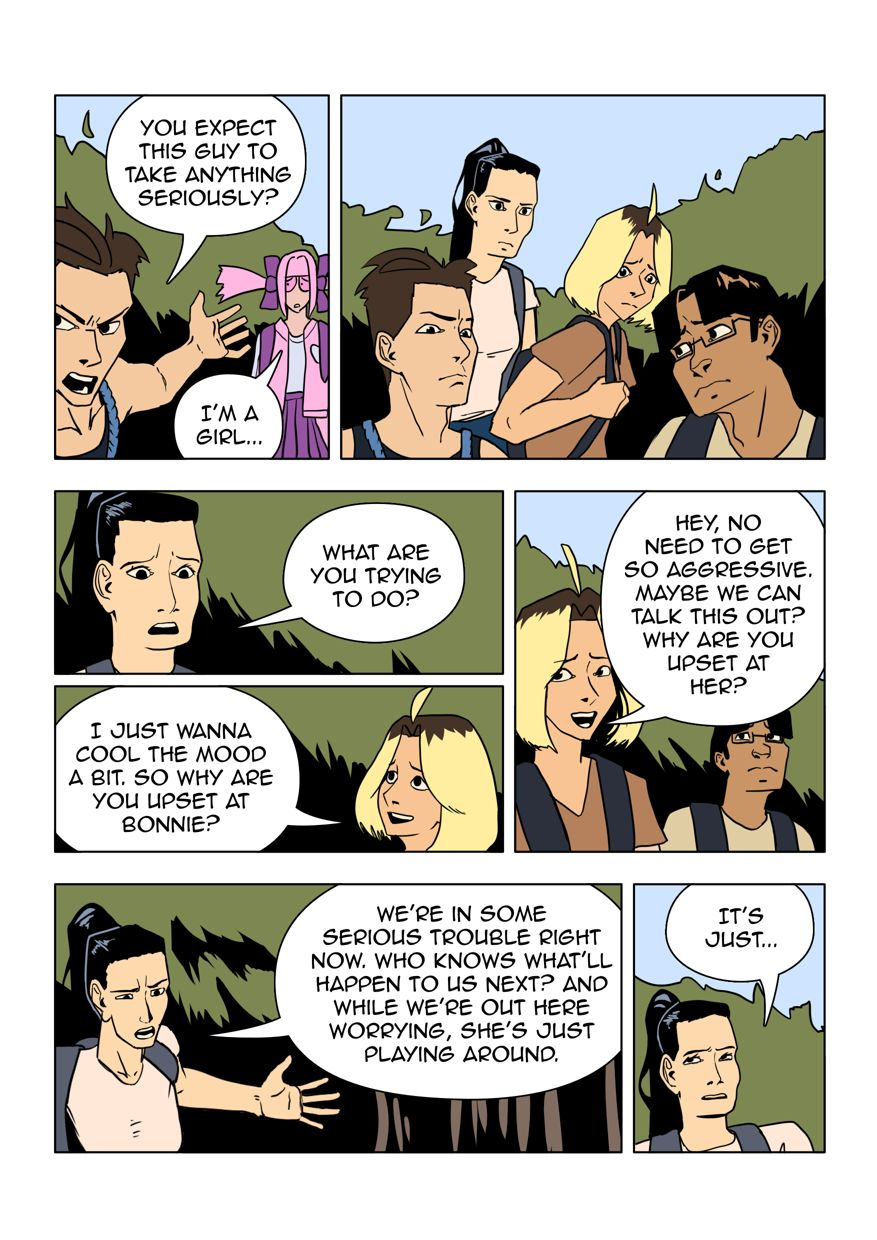
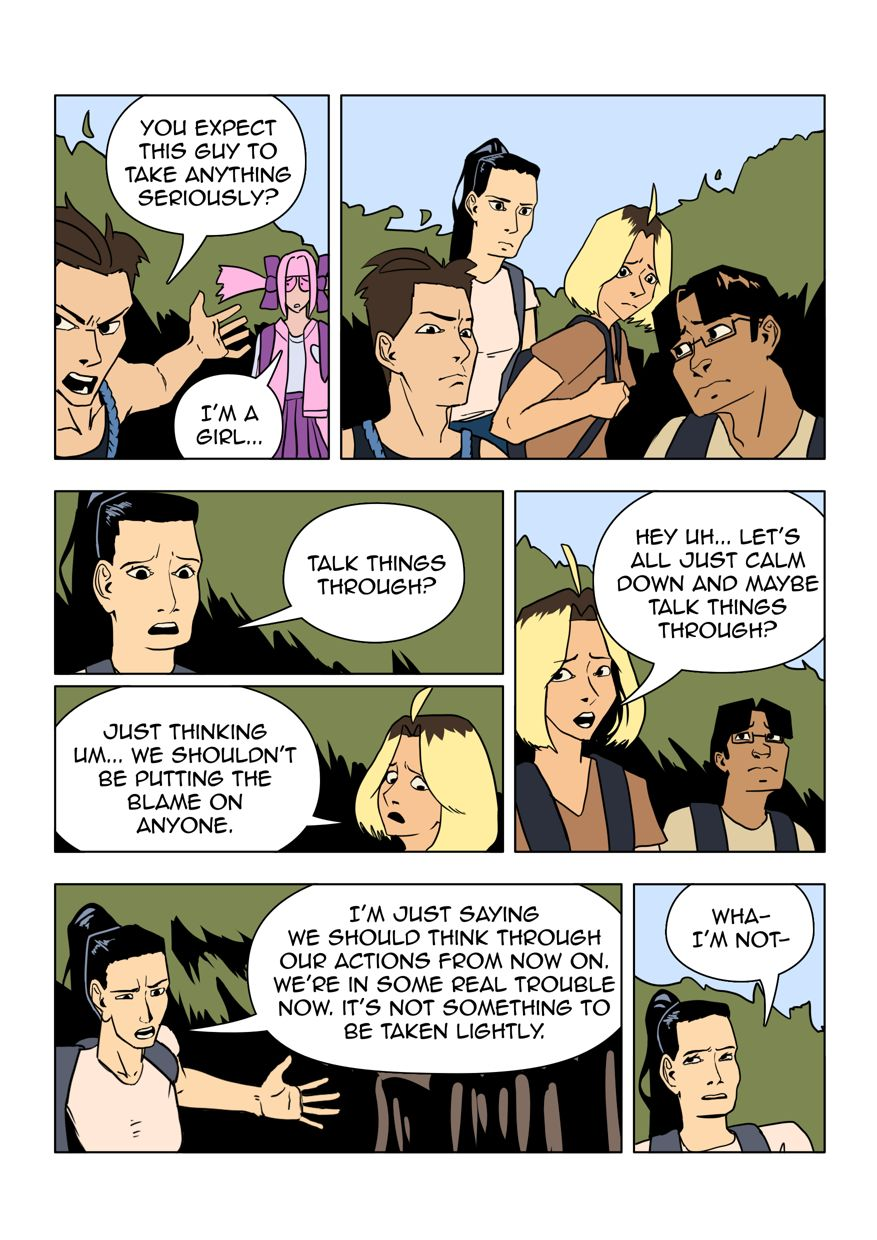
updated pages

diff --git a/js/previewcode.js b/js/previewcode.js
@@ -88,7 +88,9 @@ addEventListener("keydown", (event) => {
     }
     if (event.key == "ArrowRight"){
         const nextPage = document.querySelector(".goNext");
-        nextPage.click();
+        if(nextPage.style.visibility != "hidden"){
+            nextPage.click();
+        }
 
         
     }
